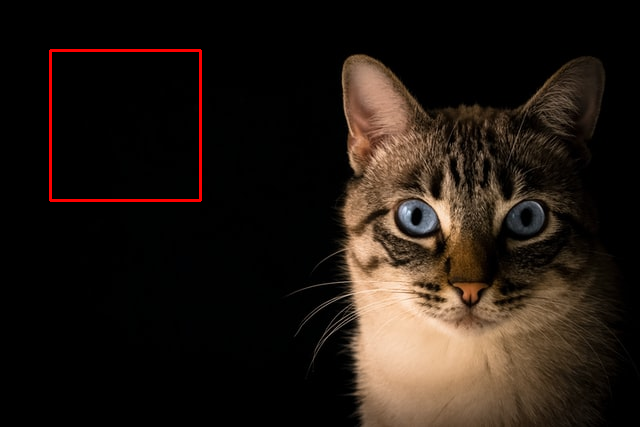
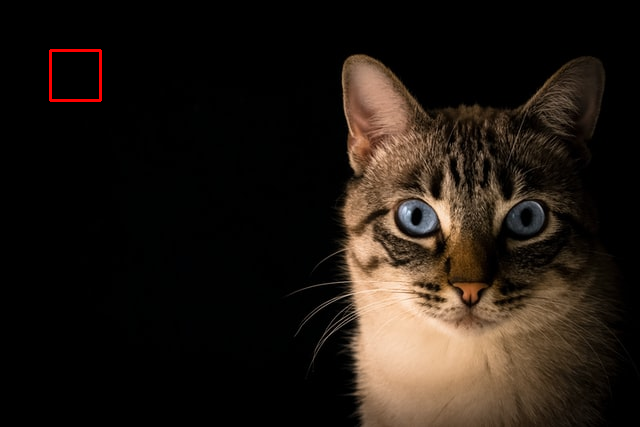
Editing Rectangle & Resized

Changed region(s): [[0.0625, 0.2131, 0.3125, 0.4871], [0.1562, 0.0913, 0.3125, 0.1218]]

diff --git a/main.py b/main.py
@@ -23,8 +23,10 @@ def convert_to_grayscale(img):
 
 # 4. Draw Rectangle
 def draw_rectangle(img, start_point, end_point, color, thickness):
+    # Draw the rectangle on the image
     img_with_rectangle = cv2.rectangle(img, start_point, end_point, color, thickness)
     return img_with_rectangle
+
 
 # 5. Resize Image
 def resize_image(img, scale_percent):
@@ -53,13 +55,14 @@ if __name__ == "__main__":
     gray_image = convert_to_grayscale(image)
     cv2.imwrite("output_files/gray_image.png", gray_image)
     print("Grayscale image saved.")
+    
+    # 5 Resize Image
+    resized_image = resize_image(image, 20)
+    cv2.imwrite("output_files/resized_image.png", resized_image)
+    print("Resized image saved.")
 
     # 4 Draw Rectangle
-    rectangle_image = draw_rectangle(image, (50, 50), (200, 200), (0, 0, 255), 2)
+    rectangle_image = draw_rectangle(image, (50, 50), (100, 100), (0, 0, 255), 2)
     cv2.imwrite("output_files/rectangle.png", rectangle_image)
     print("Rectangle image saved.")
 
-    # 5 Resize Image
-    resized_image = resize_image(image, 70)
-    cv2.imwrite("output_files/resized_image.png", resized_image)
-    print("Resized image saved.")
